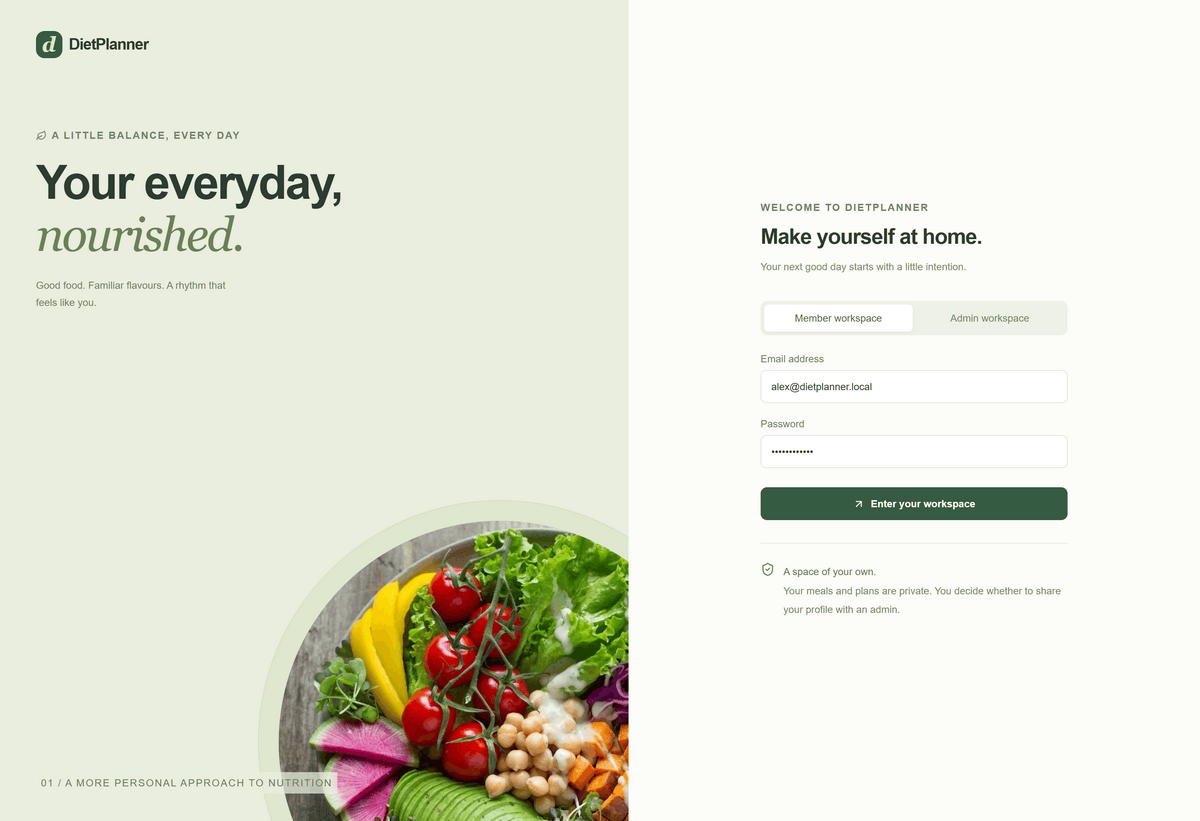
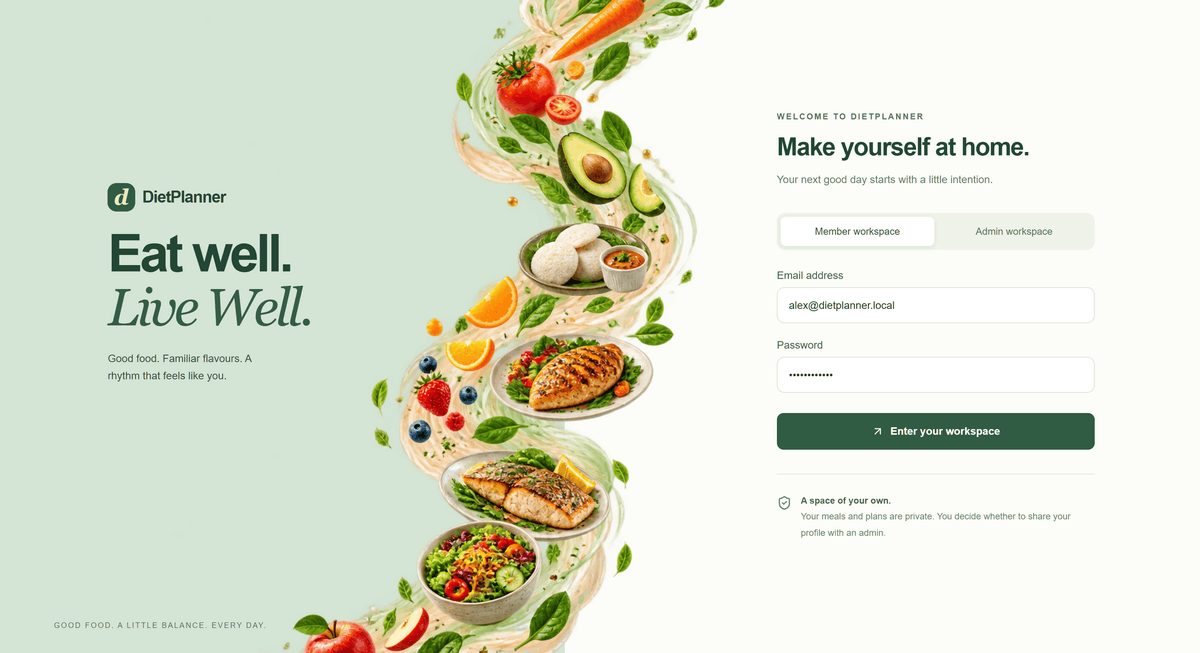
updated project image

diff --git a/src/pages/Applications.tsx b/src/pages/Applications.tsx
@@ -30,7 +30,7 @@ export default function Applications() {
             className="group m-0 border border-line rounded-art overflow-hidden bg-ink-2 cursor-zoom-in transition-colors duration-500 hover:border-line-strong"
             onClick={() => setSelected(img)}
           >
-            <div className="overflow-hidden max-h-120">
+            <div className="overflow-hidden max-h-88">
               <img
                 src={assetUrl(`/img/works/${img.file}`)}
                 alt={img.alt}
